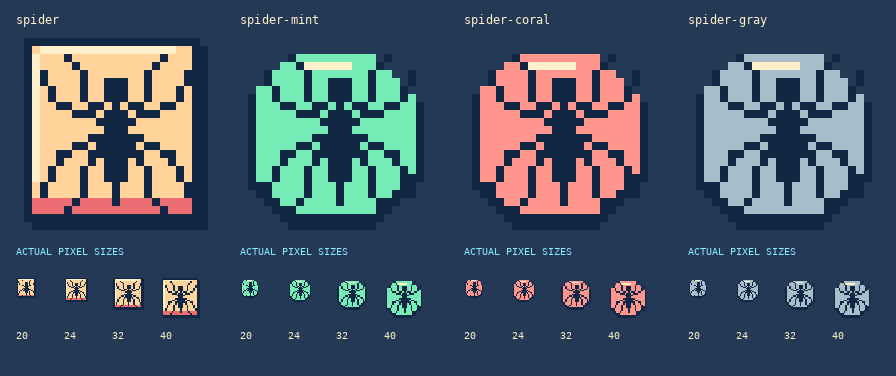
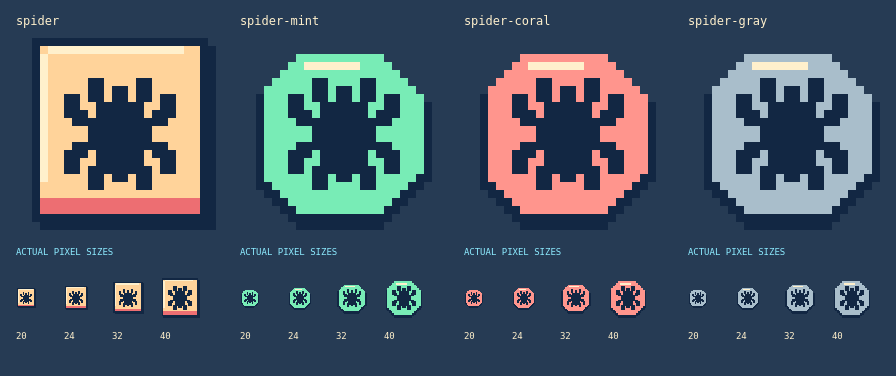
Match spider badge silhouettes to the compact pixel reference

diff --git a/tools/generate-icons.py b/tools/generate-icons.py
@@ -70,45 +70,34 @@ class Sprite:
                 f'{body}</svg>\n')
 
 
+SPIDER_ROWS = (
+    "....##....##....",
+    "....##.##.##....",
+    ".##.##.##.##.##.",
+    ".##..######..##.",
+    ".###.######.###.",
+    "..############..",
+    "....########....",
+    "....########....",
+    "..############..",
+    ".###.######.###.",
+    ".##..######..##.",
+    ".##.########.##.",
+    "....##.##.##....",
+    "....##....##....",
+)
+
+
 def spider_emblem(s):
-    """A chest-emblem silhouette, centered on the x=12 pixel column.
+    """The reference badge's squat body and eight short, thick stepped legs.
 
-    Four mirrored, angular leg pairs fan away from a narrow thorax. The head
-    stays distinct above it, and the long abdomen tapers to a one-pixel point.
-    Each limb is one pixel wide so the negative space survives at bar sizes.
+    Keep the silhouette on a fixed integer grid so every badge uses the same
+    compact shape and the notches between its legs survive at small sizes.
     """
-    def line(points):
-        for (x0, y0), (x1, y1) in zip(points, points[1:]):
-            dx, dy = abs(x1-x0), -abs(y1-y0)
-            sx, sy = 1 if x0 < x1 else -1, 1 if y0 < y1 else -1
-            error = dx + dy
-            while True:
-                s.rect(x0, y0, 1, 1, "ink")
-                if (x0, y0) == (x1, y1):
-                    break
-                twice_error = 2 * error
-                if twice_error >= dy:
-                    error += dy
-                    x0 += sx
-                if twice_error <= dx:
-                    error += dx
-                    y0 += sy
-
-    legs = (
-        [(11,9), (8,7), (8,4), (6,2)],
-        [(11,10), (5,8), (3,4)],
-        [(11,11), (5,14), (3,19)],
-        [(11,12), (8,16), (8,19), (6,21)],
-    )
-    for points in legs:
-        line(points)
-        line([(24-px, py) for px, py in points])
-    s.rect(11,5,3,3,"ink")       # Small head.
-    s.rect(12,8,1,4,"ink")       # Slim, centered thorax.
-    s.rect(11,11,3,2,"ink")
-    s.rect(10,13,5,2,"ink")      # Elongated abdomen, not a round bug body.
-    s.rect(11,15,3,3,"ink")
-    s.rect(12,18,1,3,"ink")
+    for y, row in enumerate(SPIDER_ROWS, start=5):
+        for x, pixel in enumerate(row, start=4):
+            if pixel == "#":
+                s.rect(x, y, 1, 1, "ink")
 
 
 def plate(base="peach", shade="red"):

diff --git a/README.md b/README.md
@@ -16,7 +16,7 @@ These steps are for a first installation on Arch with an existing working Hyprla
 
 ### 1. Install packages and link the dotfiles
 
-Install the shell and the tools used by the current buttons, including `wpctl` from WirePlumber for the volume slider and mute control. The defaults are **Kitty, Brave, Nemo and the themed Rofi launcher**:
+Install the shell and the tools used by the current buttons, including `wpctl` from WirePlumber for the volume slider and mute control. The defaults are **Kitty, Brave, Nemo and the themed Rofi launcher**. The current spider badges are bundled; they need no extra packages or generation step:
 
 ```sh
 sudo pacman -Syu --needed git hyprland quickshell qt6-svg python ttf-dejavu \
@@ -103,7 +103,7 @@ From your Arch Hyprland desktop, run:
 bash scripts/check-arch.sh --session
 ```
 
-Click a numbered workspace, TERM, WEB, FILES, APPS and NETWORK. Files should open Nemo, WEB should open Brave when installed, and APPS should show the pastel Rofi menu. Click the top-bar speaker/percentage to mute and unmute; open its adjacent `v` button and drag the volume slider to check audio adjustment. Play a YouTube video or Spotify track to check the dock; see [media troubleshooting](#brave-youtube-and-spotify-media) if its title is absent. Tiled windows should stay clear of the top, left and bottom bars.
+Click a numbered workspace, TERM, WEB, FILES, APPS and NETWORK. Files should open Nemo, WEB should open Brave when installed, and APPS should show the pastel Rofi menu. Check the broad-bodied, short-legged spider badges in the top bar and tracker. Click the top-bar speaker/percentage to mute and unmute; open its adjacent `v` button and drag the volume slider to check audio adjustment. Play a YouTube video or Spotify track to check the dock; see [media troubleshooting](#brave-youtube-and-spotify-media) if its title is absent. Tiled windows should stay clear of the top, left and bottom bars.
 
 The package command in step 1 includes the following tools. You can omit tools for controls you do not use:
 
@@ -158,7 +158,7 @@ If Brave is absent, the browser is not exporting a media session to your desktop
 
 ## Updating either previous version
 
-Update from this checkout and run the installer; you do not need to stop the old bar yourself:
+Update from this checkout and run the installer to load the current icons and controls; you do not need to stop the old bar yourself:
 
 ```sh
 git switch main
@@ -171,7 +171,7 @@ bash scripts/install.sh
 bash scripts/check-arch.sh
 ```
 
-Run this from your existing checkout as your normal desktop user; only the package command uses `sudo`. The package list matches the first-install requirements, so new controls have their tools after an update. Keep your existing working PipeWire and network setup. From your Hyprland desktop, finish with `bash scripts/check-arch.sh --session` and try the updated controls described below.
+Run this from your existing checkout as your normal desktop user; only the package command uses `sudo`. The package list matches the first-install requirements. The badge refresh needs no additional packages. Keep your existing working PipeWire and network setup. From your Hyprland desktop, finish with `bash scripts/check-arch.sh --session` and check the spider badges in the top bar and tracker alongside the controls described below.
 
 The installer recognizes both previous layouts. It reuses canonical links (including equivalent relative links), backs up aliases to the retired source, and removes only this checkout's retired `spidey-retro`, `hypr-spidey-retro` and `kitty-spidey` links. Unknown files, foreign links and earlier backups stay intact. If you moved to another checkout, use `--backup` for conflicting canonical links rather than deleting your old files.
 
@@ -234,7 +234,7 @@ This opens the [windowed preview](docs/preview.png) over a neutral grid. Demo mo
 - Boot login: `greeter/` and `config/greetd/`; [setup and Ly alternative](docs/appearance.md).
 - Generated wallpaper: `assets/wallpapers/spidey-city.png`.
 
-Spider badges now have a small head, narrow center, pointed abdomen and eight separated legs:
+Spider badges use the supplied reference's squat shape: a broad body and eight short, stepped legs. The peach, mint, coral and gray badge frames keep their existing colors:
 
 ![Updated spider sprites](docs/spider-icons.png)
 

diff --git a/docs/appearance.md b/docs/appearance.md
@@ -1,6 +1,6 @@
 # Lock screen, boot login and wallpaper
 
-The lock screen and graphical login share the desktop's cyan pixel frames, navy panels, peach keys and mask badges. Hyprlock protects an existing session. For boot login, Quickshell renders a greetd prompt inside a restricted Sway session; greetd handles authentication through PAM and starts Hyprland after successful authentication. Installing the desktop rice does not change your login manager.
+The lock screen and graphical login share the desktop's cyan pixel frames, navy panels, peach keys and pixel badges. The graphical login uses the same broad-bodied spider emblem as the desktop. Hyprlock protects an existing session. For boot login, Quickshell renders a greetd prompt inside a restricted Sway session; greetd handles authentication through PAM and starts Hyprland after successful authentication. Installing the desktop rice does not change your login manager.
 
 ## Lock screen
 
@@ -92,7 +92,7 @@ bash scripts/install-login.sh --install --dry-run
 sudo bash scripts/install-login.sh --install
 ```
 
-Customized `greeter/session.json`, `sway.conf` and the managed greetd configuration are preserved. Replaced snapshots and configurations have adjacent `.spidey-backup.*` copies. The ordinary desktop installer does not refresh this separate system installation. Updating does not need `--enable` again; the new appearance appears the next time the login screen starts. Skip these commands if you kept Ly or another login manager.
+Customized `greeter/session.json`, `sway.conf` and the managed greetd configuration are preserved. Replaced snapshots and configurations have adjacent `.spidey-backup.*` copies. The ordinary desktop installer does not refresh this separate system installation. Run this refresh to bring the updated spider badge into an already-installed greeter. Updating does not need `--enable` again; the new appearance appears the next time the login screen starts. Skip these commands if you kept Ly or another login manager.
 
 To return to Ly, switch to a TTY such as `Ctrl + Alt + F3`, log in and run:
 

diff --git a/docs/validation.md b/docs/validation.md
@@ -11,6 +11,15 @@
 
 Screenshots show the 0.3.2 runtime with demo telemetry. Offscreen-mask warnings and an absent Hyprland socket under Sway are expected.
 
+The [spider badge sheet](spider-icons.png) shows the reference's broad body and eight short, stepped legs across the four badge colors. To regenerate the committed SVG assets from their source:
+
+```sh
+python3 tools/generate-icons.py
+git diff -- quickshell/assets/icons/
+```
+
+A deterministic regeneration leaves the SVG files unchanged. Compare the sheet with the [desktop preview](preview.png) and [login preview](login-preview.png) to assess the emblem at its actual UI sizes.
+
 ## App actions and browser media
 
 The volume integration test drives the production top-bar popup with real Qt pointer and keyboard events, the actual Python action bridge, and a private fake `wpctl`. It checks mute, percentage setting, a final drag queued behind a busy action, 0–100% bounds, external volume changes, unavailable devices and closing. It cannot modify the machine's audio. Quickshell 0.3.2 passed keyboard and pointer checks; 0.2.1 passed pointer controls and the explicit close button. A separate private Sway check opened the real layer-shell popup using a Wayland virtual pointer and confirmed its 300×156 layout below the bar.
